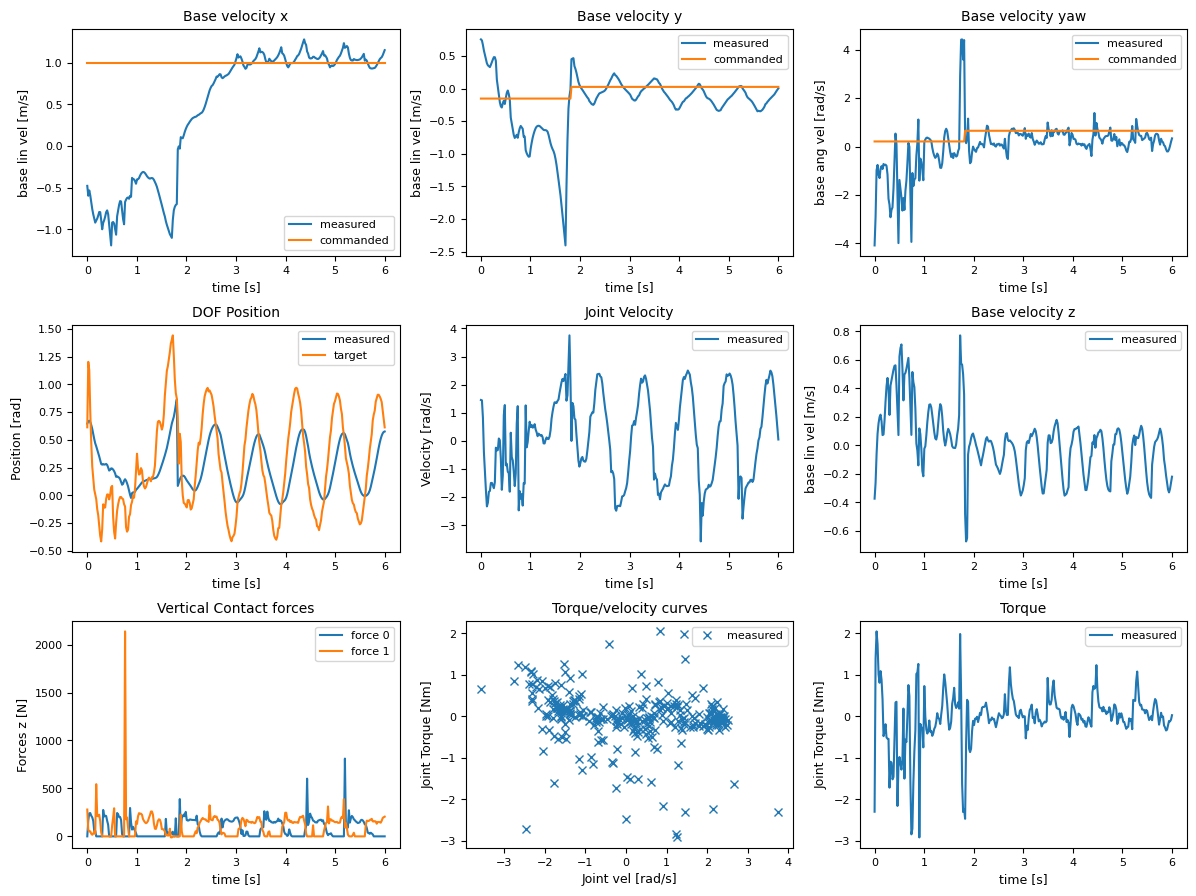
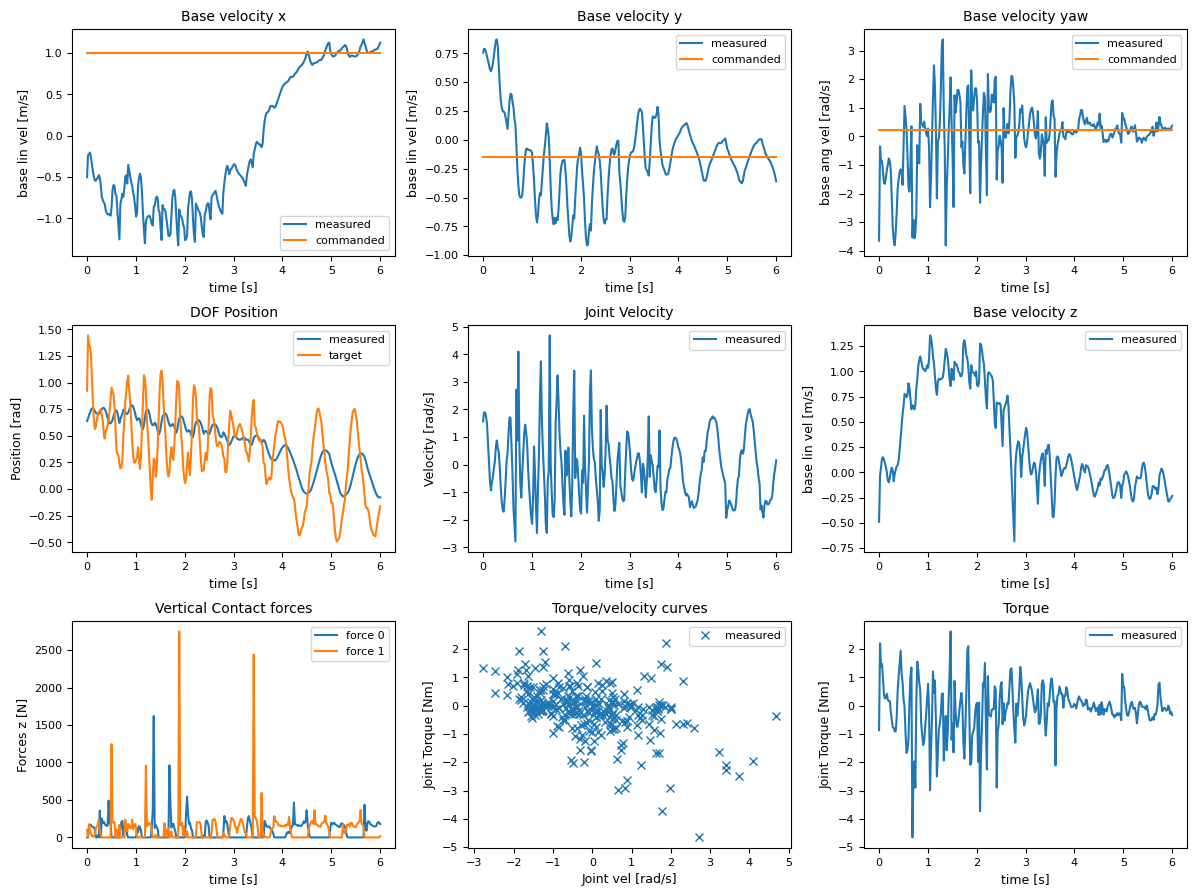
update task reward

diff --git a/legged_gym/envs/k1/k1_amp/k1_amp.py b/legged_gym/envs/k1/k1_amp/k1_amp.py
@@ -53,6 +53,18 @@ class K1AMP(LeggedRobotAMP):
                 for i in range(self.obs_history_deque.maxlen)],
             dim=-1,
         )
+    
+    def get_amp_observations(self):
+        key_body_pos_relative_to_base = self.simulator.key_body_pos - \
+                self.simulator.base_pos.unsqueeze(1)
+        # Use base_lin_vel_w, base_ang_vel_w, dof_pos, dof_vel, key_body_pos_relative_to_base in the observations
+        return torch.cat((
+            self.simulator.base_lin_vel,              # 3
+             self.simulator.base_ang_vel,             # 3
+            self.simulator.dof_pos[:, 2:],                   # num_dofs-2, excluding head joint
+            self.simulator.dof_vel[:, 2:],                   # num_dofs, excluding head joint
+            key_body_pos_relative_to_base[:, 2:].flatten(start_dim=1), # (num_key_bodies * 3)
+        ), dim=-1)
         
     def _init_buffers(self):
         super()._init_buffers()
@@ -108,6 +120,38 @@ class K1AMP(LeggedRobotAMP):
         dof_pos[:, [14,20]] = default[:, [14,20]] + torch_rand_float(-0.1, 0.1, (len(env_ids), 2), self.device)
         self.simulator.reset_dofs(env_ids, dof_pos, dof_vel)
     
+    def _reset_dofs_from_reference_motion(self, env_ids, ref_motions=None):
+        """Reset the dof positions and velocities of the robots in env_ids to the reference motion at random time steps
+
+        Args:
+            env_ids (torch.Tensor): Tensor of shape (num_envs_to_reset,) containing the ids of the envs to reset
+        """
+        ref_dof_pos = self.amp_loader.get_dof_pos_batch(ref_motions)
+        dof_pos = torch.cat((
+            torch.zeros((ref_dof_pos.shape[0], 2), device=ref_dof_pos.device),  # head joint
+            ref_dof_pos
+        ), dim=1)
+        ref_dof_vel = self.amp_loader.get_dof_vel_batch(ref_motions)
+        dof_vel = torch.cat((
+            torch.zeros((ref_dof_vel.shape[0], 2), device=ref_dof_vel.device),  # head joint
+            ref_dof_vel
+        ), dim=1)
+        self.simulator.reset_dofs(env_ids, dof_pos, dof_vel)
+        
+    def _reset_root_states_from_reference_motion(self, env_ids, ref_motions=None):
+        """Reset the root positions, orientations, linear and angular velocities of the robots in env_ids to the reference motion at random time steps
+
+        Args:
+            env_ids (torch.Tensor): Tensor of shape (num_envs_to_reset,) containing the ids of the envs to reset
+        """
+        ref_base_pos = self.amp_loader.get_base_pos_batch(ref_motions)
+        base_pos = ref_base_pos + self.simulator.env_origins[env_ids]
+        base_pos[:, 2] += 0.05 # add a small height offset to avoid initial penetration with the ground
+        ref_base_rot = self.amp_loader.get_base_rot_batch(ref_motions)
+        ref_base_lin_vel = self.amp_loader.get_base_lin_vel_batch(ref_motions)
+        ref_base_ang_vel = self.amp_loader.get_base_ang_vel_batch(ref_motions)
+        self.simulator.reset_root_states(env_ids, base_pos, ref_base_rot, ref_base_lin_vel, ref_base_ang_vel)
+    
     def reset_idx(self, env_ids):
         if len(env_ids) == 0:
             return
@@ -162,8 +206,27 @@ class K1AMP(LeggedRobotAMP):
         rew_foot_flat = torch.exp(-foot_tilt / 0.1)
         return torch.sum(rew_foot_flat * foot_contact, dim=1)
     
-    def _reward_hip_yaw_pos(self):
+    def _reward_hip_yaw_roll_pos(self):
         """Encourage hip yaw to be close to default position
         """
-        hip_yaw = self.simulator.dof_pos[:, [12, 18]]
-        return torch.sum(torch.square(hip_yaw - self.simulator.default_dof_pos[:, [12, 18]]), dim=1)
+        hip_yaw = self.simulator.dof_pos[:, [11,12,17,18]]
+        return torch.sum(torch.square(hip_yaw - self.simulator.default_dof_pos[:, [11,12,17,18]]), dim=1)
+    
+    def _reward_arm_pos(self):
+        """Encourage arm joints to be close to default position
+        """
+        arm_joints = self.simulator.dof_pos[:, [2,3,4,5,6,7,8,9]]
+        return torch.sum(torch.square(arm_joints - self.simulator.default_dof_pos[:, [2,3,4,5,6,7,8,9]]), dim=1)
+    
+    def _reward_head_pos(self):
+        """Encourage head joints to be close to default position
+        """
+        head_joints = self.simulator.dof_pos[:, :2]
+        return torch.sum(torch.square(head_joints - self.simulator.default_dof_pos[:, :2]), dim=1)
+    
+    def _reward_feet_slip(self):
+        '''penalize foot slip when in contact with the ground'''
+        foot_vel_xy_norm = torch.norm(self.simulator.feet_vel[:, :, :2], dim=-1)
+        contacts = self.simulator.link_contact_forces[:, self.simulator.feet_contact_indices, 2] > 0.1
+        slip_penalty = torch.sum(foot_vel_xy_norm * contacts, dim=1)
+        return slip_penalty

diff --git a/legged_gym/utils/motion_loader.py b/legged_gym/utils/motion_loader.py
@@ -52,9 +52,9 @@ class AMPLoader:
         self.base_rot_size = 4
         self.base_lin_vel_size = 3
         self.base_ang_vel_size = 3
-        self.dof_pos_size = num_dof
-        self.dof_vel_size = num_dof
-        self.key_body_pos_size = num_key_bodies * 3
+        self.dof_pos_size = num_dof - 2
+        self.dof_vel_size = num_dof - 2
+        self.key_body_pos_size = (num_key_bodies - 2) * 3
         # indices for slicing the observation tensor
         self.base_pos_start_idx = 0
         self.base_pos_end_idx = self.base_pos_start_idx + self.base_pos_size
@@ -116,9 +116,10 @@ class AMPLoader:
                 root_rot_data,
                 root_lin_vel_data,
                 root_ang_vel_data,
-                dof_pos_data,
-                dof_vel_data,
-                key_body_pos_relative_to_base_data.reshape(key_body_pos_relative_to_base_data.shape[0], -1)
+                # exclude head joint and head link
+                dof_pos_data[:, 2:], 
+                dof_vel_data[:, 2:],
+                key_body_pos_relative_to_base_data[:, 2:].reshape(key_body_pos_relative_to_base_data.shape[0], -1)
             ], axis=-1)
                 
             # store the trajectory and its metadata

diff --git a/legged_gym/envs/k1/k1_amp/k1_amp_config.py b/legged_gym/envs/k1/k1_amp/k1_amp_config.py
@@ -5,7 +5,7 @@ from legged_gym import SIMULATOR
 
 import glob
 
-MOTION_FILES = glob.glob(LEGGED_GYM_ROOT_DIR + f"/resources/reference_motion/booster_k1/{SIMULATOR}1/*")
+MOTION_FILES = glob.glob(LEGGED_GYM_ROOT_DIR + f"/resources/reference_motion/booster_k1/{SIMULATOR}/*")
 
 class K1AMPCfg(LeggedRobotAMPCfg):
     class env(K1FlatCommonCfg.env):
@@ -46,15 +46,18 @@ class K1AMPCfg(LeggedRobotAMPCfg):
             lin_vel_z = -2.0
             ang_vel_xy = -0.05
             orientation = -1.0
-            dof_acc = -2.5e-7
+            dof_acc = -1.0e-7
             dof_power = -1.e-4
             collision = -1.0
-            action_rate = -0.01
+            action_rate = -0.005
             # foot_clearance = 0.4
             # regularization
-            hip_yaw_pos = -0.1
-            foot_flat = 0.2
-            feet_air_time = 1.0
+            feet_distance = -100.0
+            head_pos = -0.2
+            hip_yaw_roll_pos = -0.1
+            arm_pos = -0.05
+            feet_slip = -0.5
+            feet_air_time = 0.5
             foot_landing_vel = -0.15
     
     class domain_rand(K1FlatCommonCfg.domain_rand):
